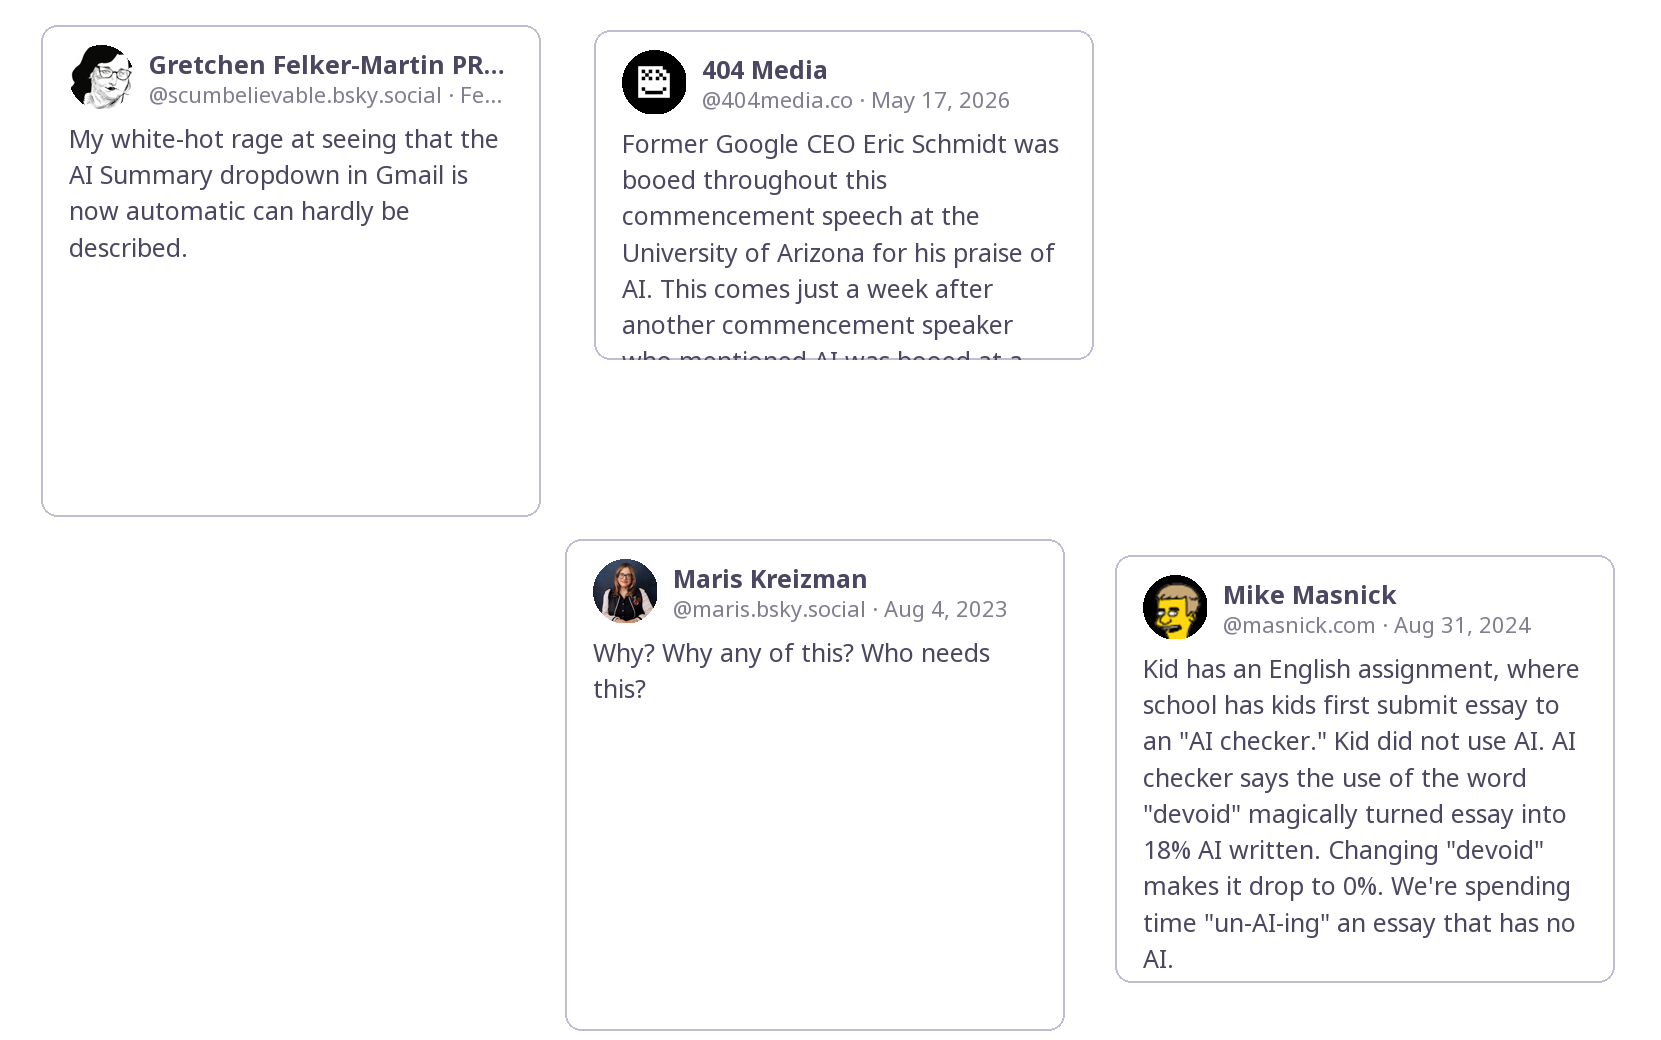
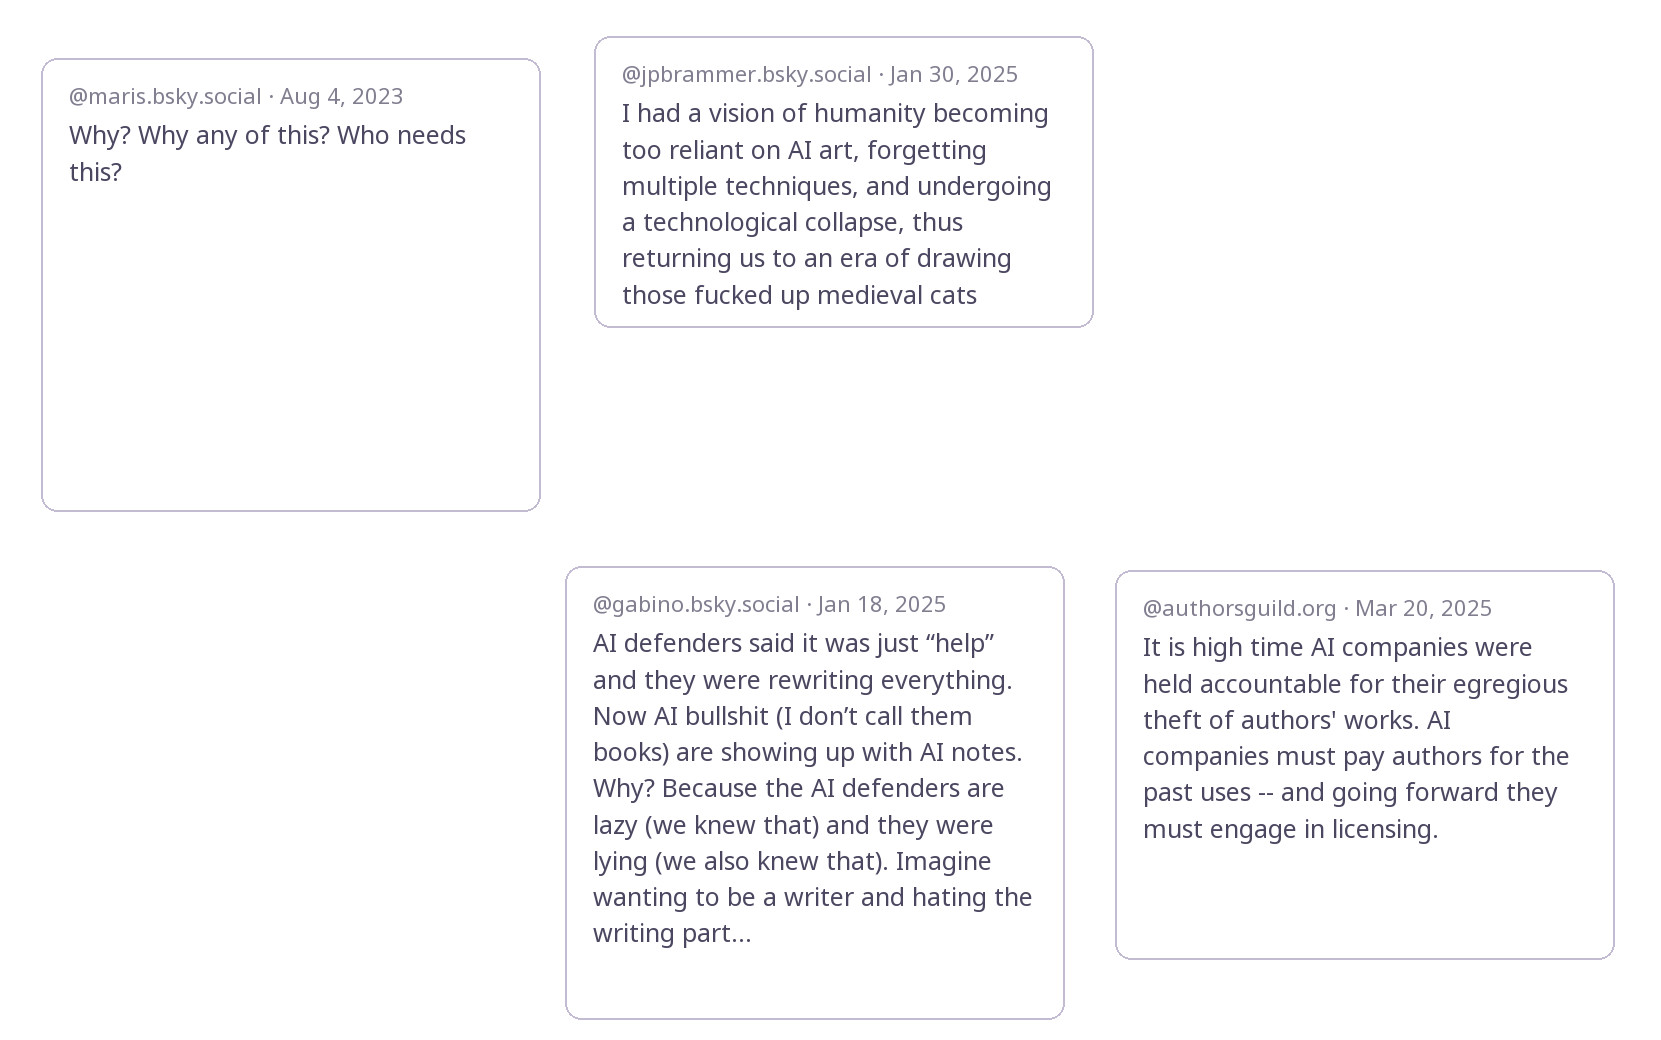
slides: maybe final updates

diff --git a/js/bsky-cards.js b/js/bsky-cards.js
@@ -64,25 +64,13 @@
     const card = document.createElement("article");
     card.className = "bsky-card";
     const head = document.createElement("header");
-    const av = document.createElement("img");
-    av.className = "bsky-avatar";
-    av.alt = "";
-    if (post.author.avatar) av.src = post.author.avatar;
-    av.onerror = () => {
-      const f = document.createElement("span");
-      f.className = "bsky-avatar bsky-fallback";
-      f.textContent = post.author.displayName[0];
-      av.replaceWith(f);
-    };
     const who = document.createElement("div");
     who.className = "bsky-who";
-    const name = document.createElement("strong");
-    name.textContent = post.author.displayName;
     const meta = document.createElement("span");
     meta.className = "bsky-meta";
     meta.textContent = "@" + post.author.handle + " · " + post.date;
-    who.append(name, meta);
-    head.append(av, who);
+    who.append(meta);
+    head.append(who);
     const body = document.createElement("p");
     body.textContent = post.text;
     card.append(head, body);

diff --git a/css/theme-override.css b/css/theme-override.css
@@ -507,36 +507,11 @@ html:not(.reveal-print) .reveal .slides > section.present.divider {
     margin-bottom: 6px;
 }
 
-.reveal .bsky-avatar {
-    flex: 0 0 auto;
-    width: 32px;
-    height: 32px;
-    border-radius: 50%;
-    object-fit: cover;
-}
-
-.reveal .bsky-fallback {
-    display: flex;
-    align-items: center;
-    justify-content: center;
-    background: #6f5b92;
-    color: #faf9fc;
-    font-weight: 700;
-    font-size: 15px;
-}
-
 .reveal .bsky-who {
     display: flex;
     flex-direction: column;
     line-height: 1.25;
     min-width: 0;
-}
-
-.reveal .bsky-who strong {
-    font-size: 12.5px;
-    white-space: nowrap;
-    overflow: hidden;
-    text-overflow: ellipsis;
 }
 
 .reveal .bsky-meta {

diff --git a/tools/make-bsky-fallback.py b/tools/make-bsky-fallback.py
@@ -36,9 +36,11 @@ FH = SLIDE_H - FIELD_TOP - FIELD_BOTTOM
 
 CARD_W, CARD_MIN_H = 250, 128
 PAD_X, PAD_Y = 14, 10
-AVATAR, AV_GAP, AV_MARGIN = 32, 8, 6
 BODY_FONT, BODY_LH = 12.5, 1.45
 NAME_FONT, META_FONT = 12.5, 11
+# Header is the single-line .bsky-meta (no avatar, no display name):
+# the meta line, plus the header's 6px bottom margin.
+HEADER_H = META_FONT * 1.25 + 6
 TEXT_W = CARD_W - 2 - 2 * PAD_X  # 220: minus borders and padding
 MAX_LINES = 10  # -webkit-line-clamp
 GAP = 24
@@ -52,8 +54,8 @@ META_INK: RGB = tuple(round(c * 0.7 + 255 * 0.3) for c in INK)  # type: ignore[a
 BORDER: RGB = tuple(  # type: ignore[assignment]
     round(c * 0.45 + 255 * 0.55) for c in (111, 91, 146)
 )
-PLUM: RGB = (111, 91, 146)
-PAPER: RGB = (250, 249, 252)
+RADIUS = 8
+
 CARD_ALPHA = 235  # .bsky-show opacity: .92
 RADIUS = 8
 
@@ -62,8 +64,6 @@ FONT_PATH = "/tmp/NotoSans.ttf"  # woff2 -> ttf, converted once
 
 class Author(TypedDict):
     handle: str
-    displayName: str
-    avatar: str
 
 
 class Post(TypedDict):
@@ -74,26 +74,29 @@ class Post(TypedDict):
 
 
 # Card heights as measured in the browser (offsetHeight, post-webfont) —
-# from the "bsky layout:" console log bsky-cards.js emits. PIL's font
-# metrics run ~10-15% short of the browser's, and heights drive both the
-# grid's row count and the slack clamps, so the tool trusts these over its
-# own estimates. Keyed by the deterministic shuffle index; if the post set
-# changes, re-derive from a fresh layout log (or fall back to estimates).
+# from the "bsky layout:" console log bsky-cards.js emits, adjusted from
+# the original avatar-header measurements by the header's shrink (32px
+# avatar row → 29.4px two text lines → 19.75px single meta line). PIL's
+# font metrics run ~10-15% short of the browser's, and heights drive both
+# the grid's row count and the slack clamps, so the tool trusts these over
+# its own estimates. Keyed by the deterministic shuffle index; if the post
+# set or card layout changes, re-derive from a fresh layout log (or fall
+# back to estimates).
 MEASURED_H: dict[int, int] = {
     0: 128,
-    1: 198,
-    2: 230,
-    3: 263,
-    4: 149,
-    5: 149,
-    6: 246,
-    7: 198,
+    1: 179,
+    2: 211,
+    3: 244,
+    4: 130,
+    5: 130,
+    6: 227,
+    7: 179,
     8: 128,
-    9: 133,
-    10: 246,
-    11: 214,
-    12: 246,
-    13: 165,
+    9: 128,
+    10: 227,
+    11: 195,
+    12: 227,
+    13: 146,
 }
 
 POST_URL = re.compile(r"^https://bsky\.app/profile/([^/]+)/post/([^/?#]+)$")
@@ -145,31 +148,7 @@ def ellipsize(text: str, f: ImageFont.FreeTypeFont, width: float) -> str:
 def card_height(post: Post, body_font: ImageFont.FreeTypeFont) -> int:
     lines = wrap(post["text"], TEXT_W, body_font)[:MAX_LINES]
     text_h = len(lines) * BODY_FONT * BODY_LH
-    return max(CARD_MIN_H, round(2 + 2 * PAD_Y + AVATAR + AV_MARGIN + text_h))
-
-
-def draw_avatar(post: Post, size_px: int) -> Image.Image:
-    try:
-        url = post["author"]["avatar"]
-        dest = pathlib.Path("/tmp/avatars") / (post["author"]["handle"] + ".img")
-        dest.parent.mkdir(exist_ok=True)
-        if not dest.exists():
-            urllib.request.urlretrieve(url, dest)  # noqa: S310
-        im: Image.Image = Image.open(dest).convert("RGB").resize((size_px, size_px))
-    except Exception:
-        im = Image.new("RGB", (size_px, size_px), PLUM)
-        ImageDraw.Draw(im).text(
-            (size_px / 2, size_px / 2),
-            post["author"]["displayName"][0],
-            font=font(15, 700),
-            fill=PAPER,
-            anchor="mm",
-        )
-    mask = Image.new("L", (size_px, size_px), 0)
-    ImageDraw.Draw(mask).ellipse((0, 0, size_px, size_px), fill=255)
-    out = Image.new("RGBA", (size_px, size_px), (0, 0, 0, 0))
-    out.paste(im, (0, 0), mask)
-    return out
+    return max(CARD_MIN_H, round(2 + 2 * PAD_Y + HEADER_H + text_h))
 
 
 def appview_get(path: str, params: str) -> str:
@@ -213,8 +192,6 @@ def fetch_posts(urls: set[str]) -> list[Post]:
                 "url": url_of[p["uri"]],
                 "author": {
                     "handle": p["author"]["handle"],
-                    "displayName": p["author"]["displayName"],
-                    "avatar": p["author"]["avatar"],
                 },
                 "date": created.astimezone(timezone.utc).strftime("%b %-d, %Y"),
                 "text": p["record"]["text"],
@@ -299,18 +276,10 @@ def draw_card(post: Post, hi: int, body_font: ImageFont.FreeTypeFont) -> Image.I
         outline=(*BORDER, CARD_ALPHA),
         width=SCALE,
     )
-    av = draw_avatar(post, AVATAR * SCALE)
-    card.paste(av, (PAD_X * SCALE, PAD_Y * SCALE), av)
-    tx = (PAD_X + AVATAR + AV_GAP) * SCALE
-    who_w = TEXT_W - AVATAR - AV_GAP  # the .bsky-who column width
+    tx = PAD_X * SCALE
+    who_w = TEXT_W  # the .bsky-who column width
     d.text(
         (tx, (PAD_Y + 1) * SCALE),
-        ellipsize(post["author"]["displayName"], font(NAME_FONT, 700), who_w),
-        font=font(NAME_FONT, 700),
-        fill=(*INK, CARD_ALPHA),
-    )
-    d.text(
-        (tx, (PAD_Y + 17) * SCALE),
         ellipsize(
             f"@{post['author']['handle']} · {post['date']}",
             font(META_FONT),
@@ -323,7 +292,7 @@ def draw_card(post: Post, hi: int, body_font: ImageFont.FreeTypeFont) -> Image.I
     if len(lines) > MAX_LINES:
         lines = lines[:MAX_LINES]
         lines[-1] = lines[-1][:-1] + "…"
-    ty = (PAD_Y + AVATAR + AV_MARGIN) * SCALE
+    ty = (PAD_Y + HEADER_H) * SCALE
     for n, line in enumerate(lines):
         d.text(
             (PAD_X * SCALE, ty + n * BODY_FONT * BODY_LH * SCALE),

diff --git a/tools/bsky-macro.rb b/tools/bsky-macro.rb
@@ -45,7 +45,7 @@ module Bsky
     "at://#{did_for(m[1])}/app.bsky.feed.post/#{m[2]}"
   end
 
-  # Posts as {url:, author:{handle,displayName,avatar}, date:, text:,
+  # Posts as {url:, author:{handle}, date:, text:,
   # likes:, reposts:} — deleted/unfetchable posts are dropped.
   def posts(urls)
     uris = urls.to_h { |u| [at_uri(u), u] }
@@ -58,8 +58,6 @@ module Bsky
         'url' => url,
         'author' => {
           'handle' => p['author']['handle'],
-          'displayName' => p['author']['displayName'],
-          'avatar' => p['author']['avatar'],
         },
         'date' => date.strftime('%b %-d, %Y'),
         'text' => p['record']['text'],
